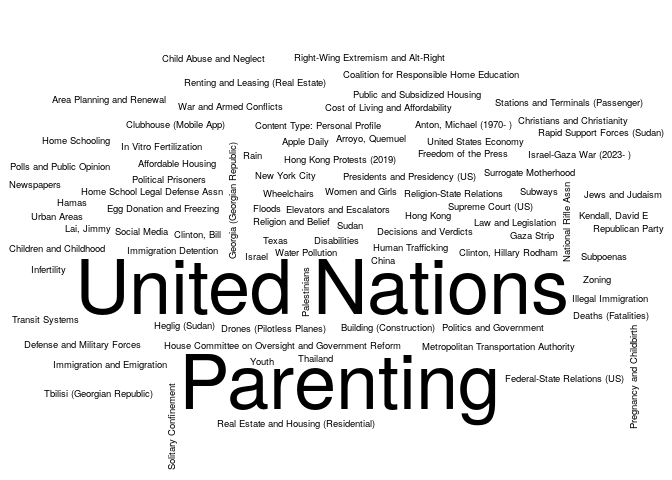
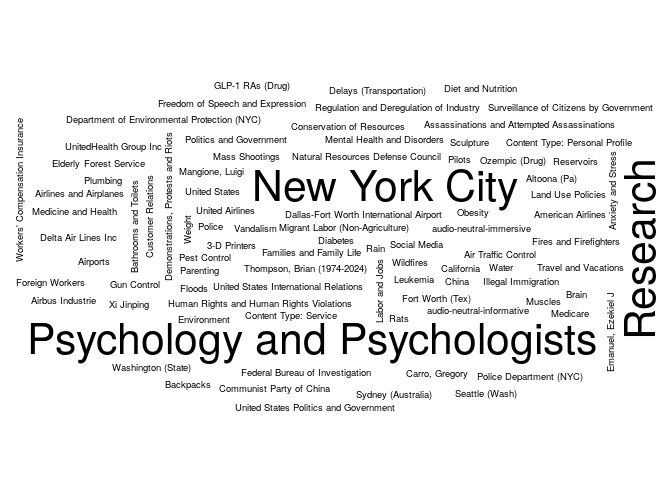
Updating the NYT report

Changed region(s): [[0.0, 0.0938, 1.0, 0.9688], [0.0625, 0.8125, 0.2188, 0.8438]]

diff --git a/03-nytimes/README.md b/03-nytimes/README.md
@@ -5,7 +5,7 @@ The following is an example of how to use the [NYTimes
 API](https://developer.nytimes.com/) to get a list of articles related
 to a particular term. Here we are searching articles that include the
 term `"health"`, and that were published up to seven days ago since
-2025-12-15.
+2025-12-22.
 
 ``` r
 # Preparing a function to use the GET method with the NYTimes API
@@ -83,25 +83,25 @@ colnames(tab) <- c("Keyword", "# Articles")
 knitr::kable(tab, row.names = FALSE)
 ```
 
-| Keyword                                  | \# Articles |
-|:-----------------------------------------|------------:|
-| International Relations                  |          10 |
-| Parenting                                |          10 |
-| United Nations                           |          10 |
-| United States Politics and Government    |          10 |
-| Affordable Housing                       |           5 |
-| Anton, Michael (1970- )                  |           5 |
-| Apple Daily                              |           5 |
-| Area Planning and Renewal                |           5 |
-| Arroyo, Quemuel                          |           5 |
-| Building (Construction)                  |           5 |
-| Child Abuse and Neglect                  |           5 |
-| Children and Childhood                   |           5 |
-| China                                    |           5 |
-| Christians and Christianity              |           5 |
-| Clinton, Bill                            |           5 |
-| Clinton, Hillary Rodham                  |           5 |
-| Clubhouse (Mobile App)                   |           5 |
-| Coalition for Responsible Home Education |           5 |
-| Content Type: Personal Profile           |           5 |
-| Cost of Living and Affordability         |           5 |
+| Keyword                                     | \# Articles |
+|:--------------------------------------------|------------:|
+| Health Insurance and Managed Care           |          15 |
+| New York City                               |          10 |
+| Psychology and Psychologists                |          10 |
+| Research                                    |          10 |
+| 3-D Printers                                |           5 |
+| Air Traffic Control                         |           5 |
+| Airbus Industrie                            |           5 |
+| Airlines and Airplanes                      |           5 |
+| Airports                                    |           5 |
+| Altoona (Pa)                                |           5 |
+| American Airlines                           |           5 |
+| Anxiety and Stress                          |           5 |
+| Assassinations and Attempted Assassinations |           5 |
+| audio-neutral-immersive                     |           5 |
+| audio-neutral-informative                   |           5 |
+| Backpacks                                   |           5 |
+| Bathrooms and Toilets                       |           5 |
+| Brain                                       |           5 |
+| California                                  |           5 |
+| Carro, Gregory                              |           5 |
